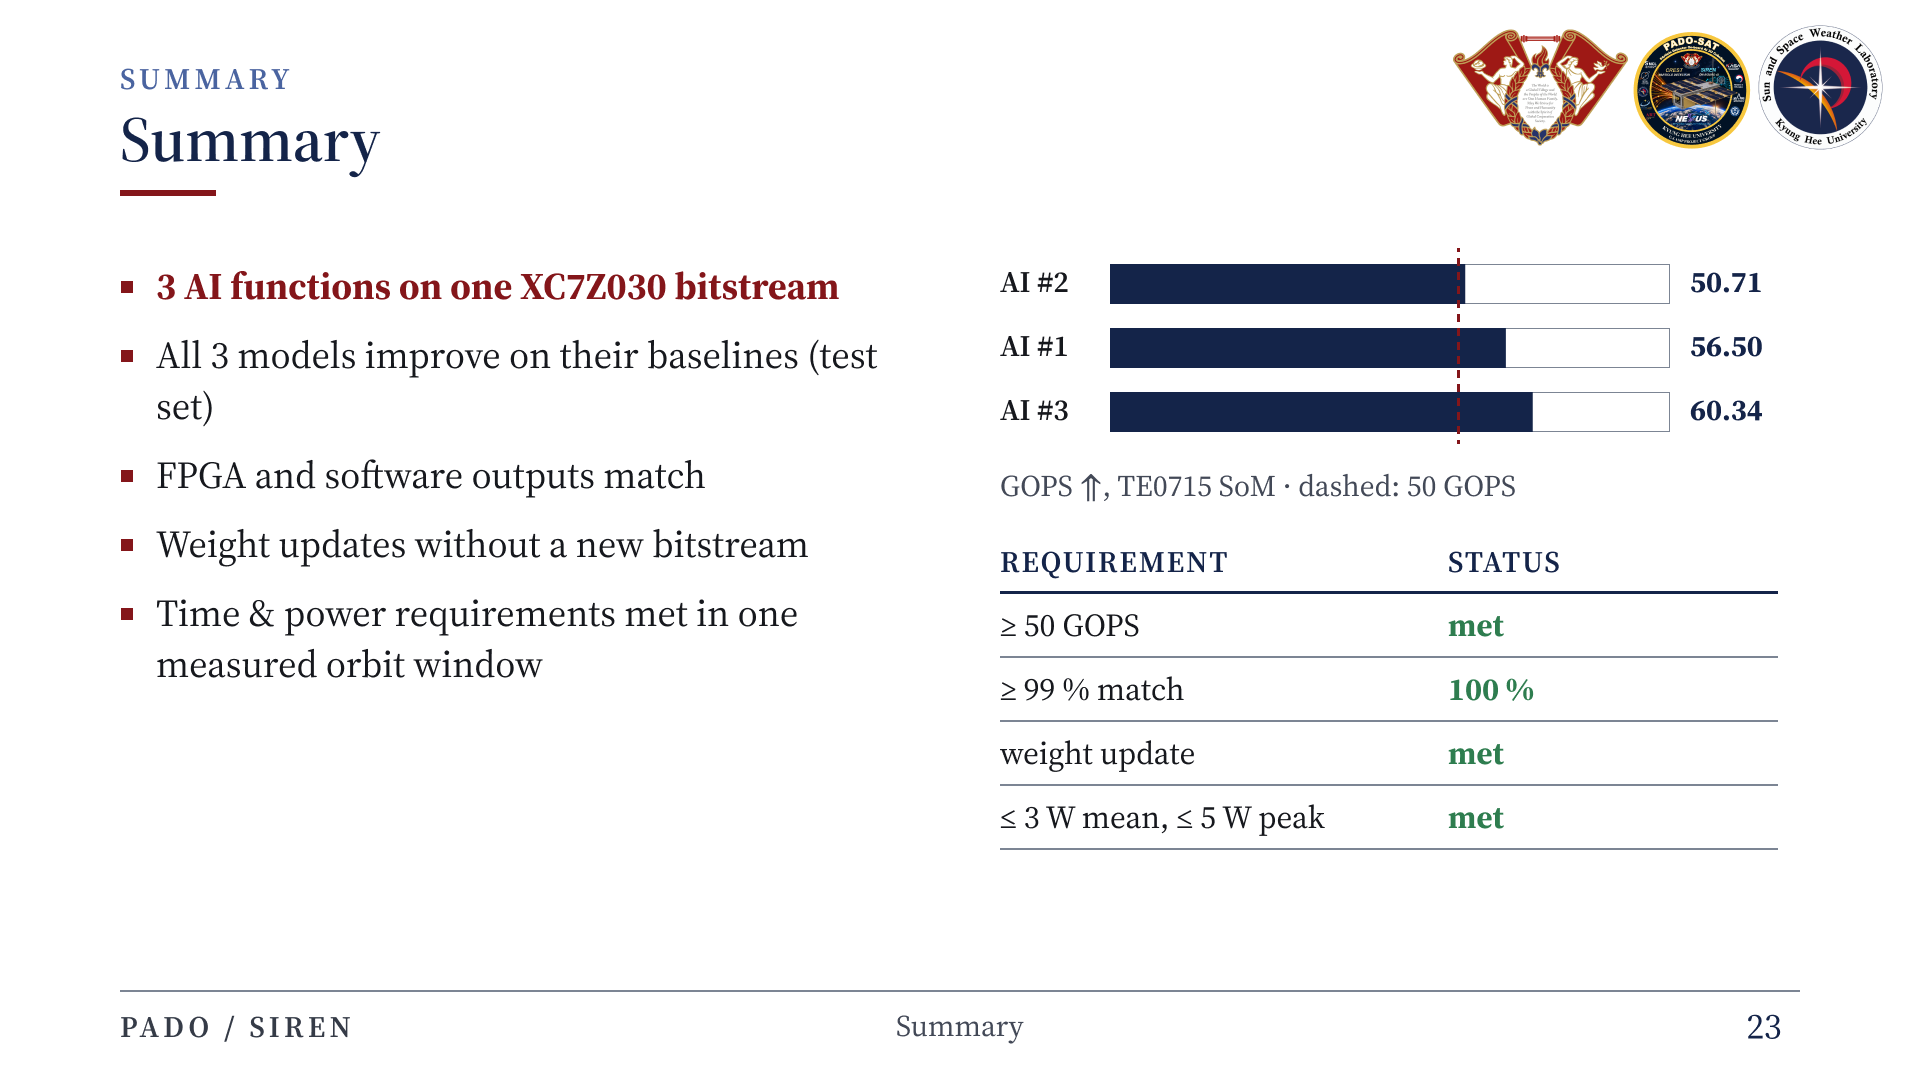
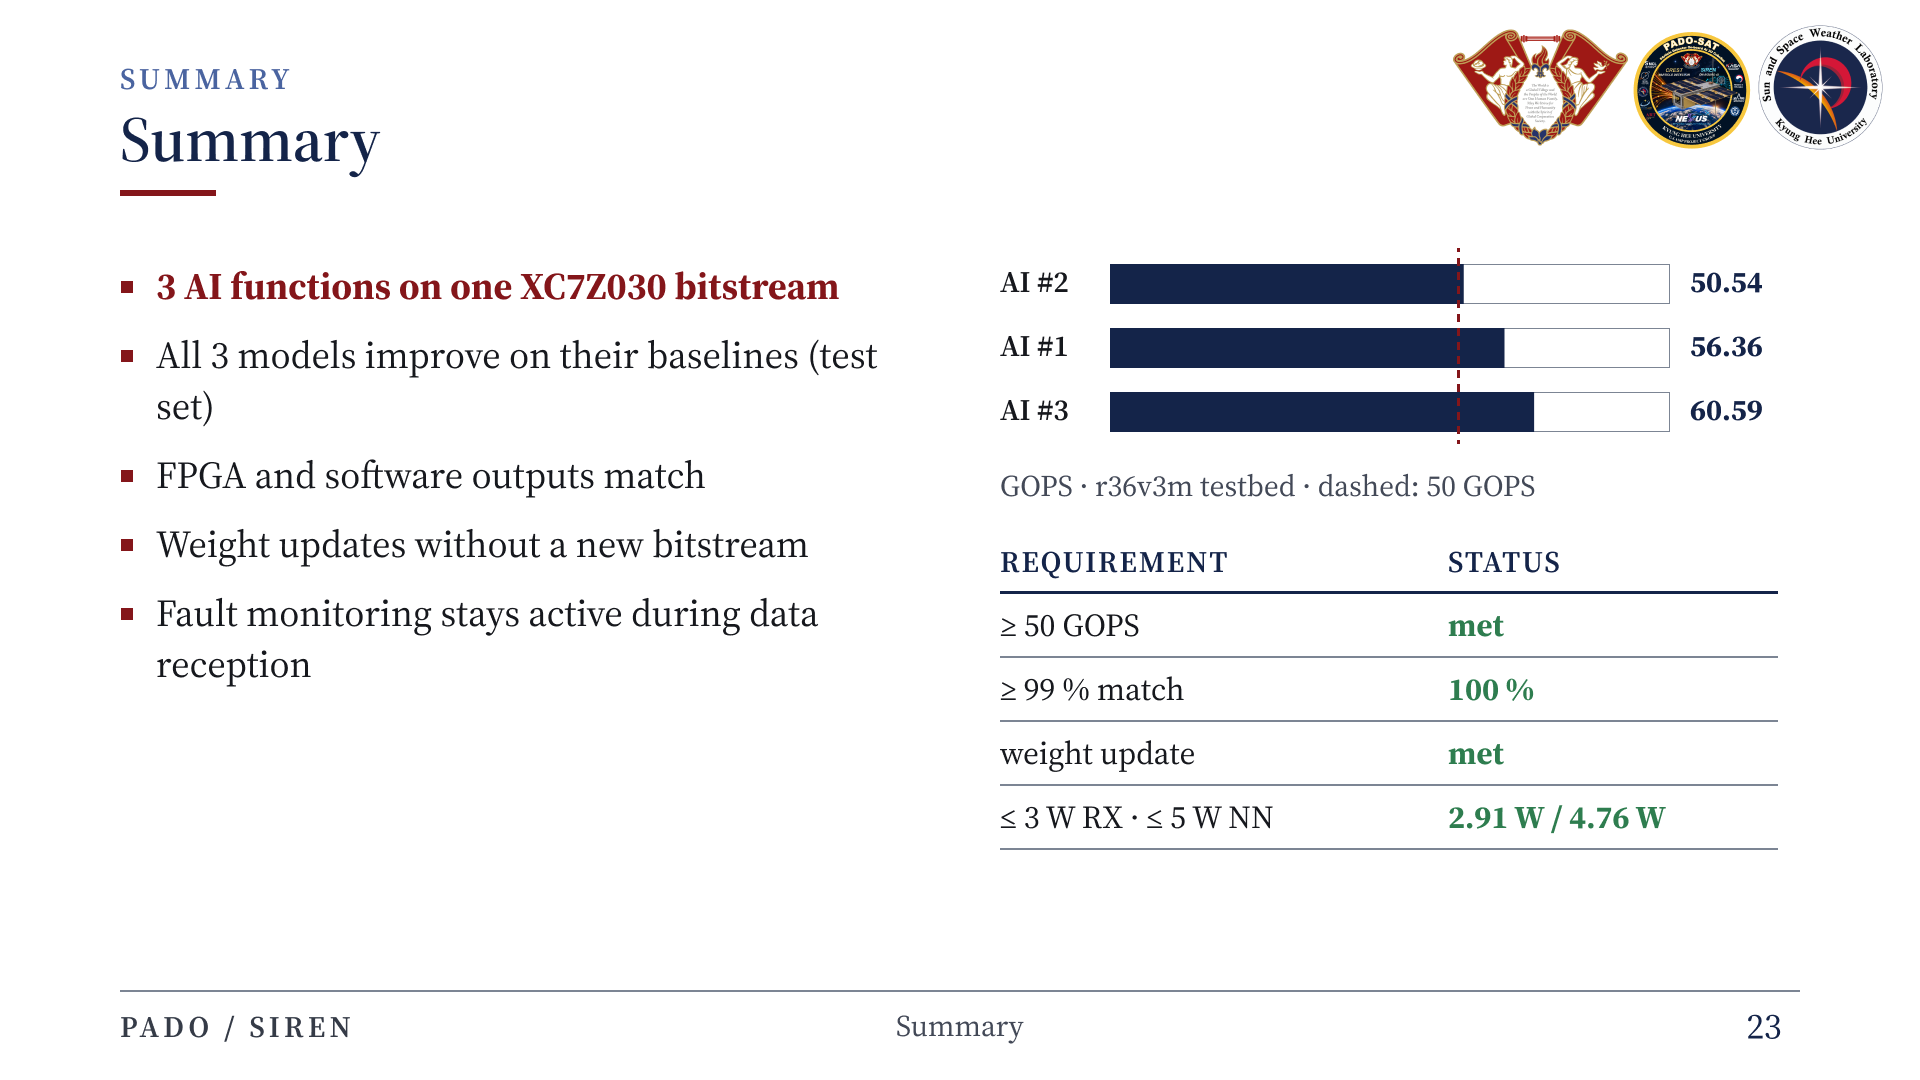
Update SIREN slides for r36v3m fault monitoring

diff --git a/README.md b/README.md
@@ -80,11 +80,11 @@ PADO-SAT의 온보드 AI 탑재체 SIREN 발표 자료입니다.
 
 ### 19. FPGA Placement and Routing
 
-![Slide 19: FPGA Placement and Routing](assets/slides/19.png?v=aefae818f520)
+![Slide 19: FPGA Placement and Routing](assets/slides/19.png?v=ee68712fd17f)
 
 ### 20. Implementation & Performance
 
-![Slide 20: Implementation & Performance](assets/slides/20.png?v=e407f835f924)
+![Slide 20: Implementation & Performance](assets/slides/20.png?v=4fcffa3cc9ca)
 
 ### 21. Future Work and Summary
 
@@ -92,11 +92,11 @@ PADO-SAT의 온보드 AI 탑재체 SIREN 발표 자료입니다.
 
 ### 22. Future Work
 
-![Slide 22: Future Work](assets/slides/22.png?v=2b2b73234981)
+![Slide 22: Future Work](assets/slides/22.png?v=e6bd636d73b6)
 
 ### 23. Summary
 
-![Slide 23: Summary](assets/slides/23.png?v=574914026bcc)
+![Slide 23: Summary](assets/slides/23.png?v=4cb10270c0c6)
 
 ### 24. Thank you
 
@@ -110,7 +110,7 @@ PADO-SAT의 온보드 AI 탑재체 SIREN 발표 자료입니다.
 
 ### 26. Abstract
 
-![Slide 26: Abstract](assets/slides/26.png?v=77190e74061f)
+![Slide 26: Abstract](assets/slides/26.png?v=8fb8bd7662ac)
 
 ### 27. Onboard AI in Previous Missions
 
@@ -142,15 +142,15 @@ PADO-SAT의 온보드 AI 탑재체 SIREN 발표 자료입니다.
 
 ### 34. Performance trade-off per model
 
-![Slide 34: Performance trade-off per model](assets/slides/34.png?v=5750c1d27776)
+![Slide 34: Performance trade-off per model](assets/slides/34.png?v=34ef8cd07874)
 
 ### 35. Two modes versus one orbit mode
 
-![Slide 35: Two modes versus one orbit mode](assets/slides/35.png?v=02e69026e2e8)
+![Slide 35: Two modes versus one orbit mode](assets/slides/35.png?v=99dd6acb6239)
 
 ### 36. Fault management as implemented
 
-![Slide 36: Fault management as implemented](assets/slides/36.png?v=63f38ecbad7f)
+![Slide 36: Fault management as implemented](assets/slides/36.png?v=a573f5ea8c63)
 
 ### 37. Fault management items (1/2): hardware
 
